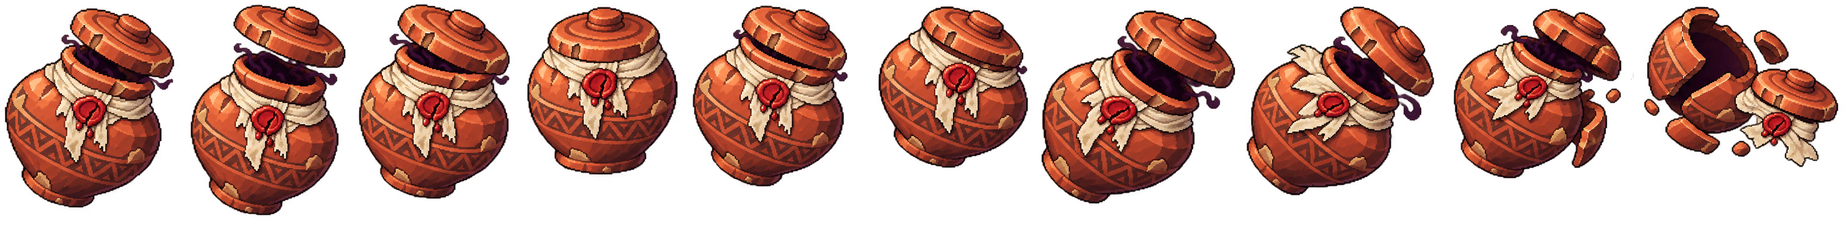
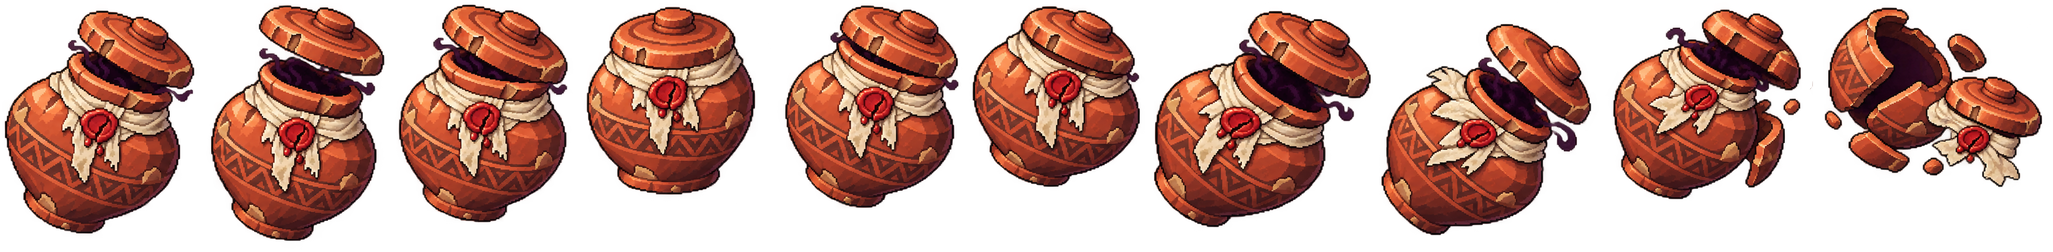
봉인 항아리 0.95배
Claude-Session: https://claude.ai/code/session_01VEprA6JeTcQVX6tKD4oAcT

diff --git a/tools/art/desert-mob-pack.py b/tools/art/desert-mob-pack.py
@@ -18,7 +18,7 @@ VISIBLE, SMALL, PAD = 256, 125, 2
 # body height in characters' heights (the game draws a character 31.2 px × zoom high). 사용자 10-19 "몹 크기 다 늘리셈,
 # 방패병은 더 커야, 4대 수문장은 ㅈㄴ 커야": 제안 값(화면 비교 docs/consult/desert/mobs/hit-sheet.png로 검수)
 HEIGHT_K = {
-    'desert_sealed_jar': 0.85, 'desert_leather_shield': 1.5, 'desert_sealed_shield': 1.6, 'desert_walking_stela': 1.4,
+    'desert_sealed_jar': 0.95, 'desert_leather_shield': 1.5, 'desert_sealed_shield': 1.6, 'desert_walking_stela': 1.4,
     'desert_sun_mirror': 1.3, 'desert_balance_sentinel': 1.3, 'desert_mask_priest_mantle': 1.45, 'desert_mask_priest_shroud': 1.45,
     'desert_royal_mask_warden': 4.2, 'desert_temple_warden': 4.2, 'desert_throne_warden': 4.2, 'desert_broken_tomb_warden': 4.2,
 }

diff --git a/docs/DESERT-COMBAT-SURVEY.md b/docs/DESERT-COMBAT-SURVEY.md
@@ -112,7 +112,7 @@ ST가 떠 있고 확장이 설치된 상태에서 `export NODE_PATH=/opt/node-to
   - 종마다 대기 그림 한 장에서 눈으로 잰다(`tools/art/desert-mob-pack.py` HIT). 무기·매달린 추·흩날리는 천·섬광·투명 여백은 뺐다.
   - 팩 도구가 캐릭터 키 단위로 바꿔 `data/sprites.json enemies.<종>.hit`에 쓴다. 한 종에 한 값이라 프레임마다 흔들리지 않는다. 두아트 몹은 값이 없어 예전과 같다.
   - 일반 6종: 몸통 기준. 방패병 2종: 방패 앞. 수문장 4종: 주먹 앞(큰 몸 안전 착지).
-- **크기:** 항아리 0.85(사용자: 더 작게, 두 번), 가죽 방패병 1.5, 봉인 방패병 1.6, 비석 1.4, 거울·천칭 1.3, 사제 둘 1.45, 수문장 넷 4.2(사용자: 1.5배 더). 단위는 캐릭터 키 배.
+- **크기:** 항아리 0.95(사용자 지정), 가죽 방패병 1.5, 봉인 방패병 1.6, 비석 1.4, 거울·천칭 1.3, 사제 둘 1.45, 수문장 넷 4.2(사용자: 1.5배 더). 단위는 캐릭터 키 배.
 - **아틀라스(사용자 10-19):**
   - 종마다 따로 묶는다(10모션). 4096×4096을 넘으면 그 종 안에서 여러 장으로 나누고, 크기를 줄여 맞추지 않는다.
   - 프레임 값은 `[x, y, w, h, 기준x, 기준y, 장]`이다.
